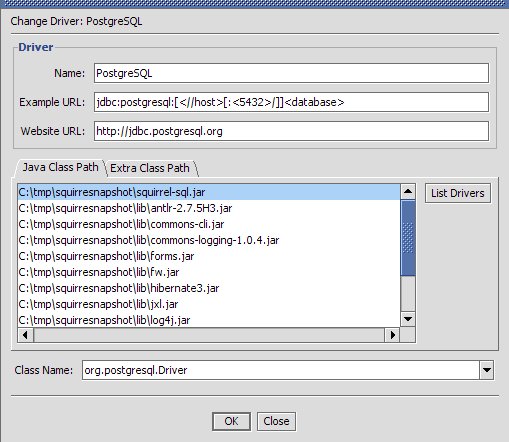
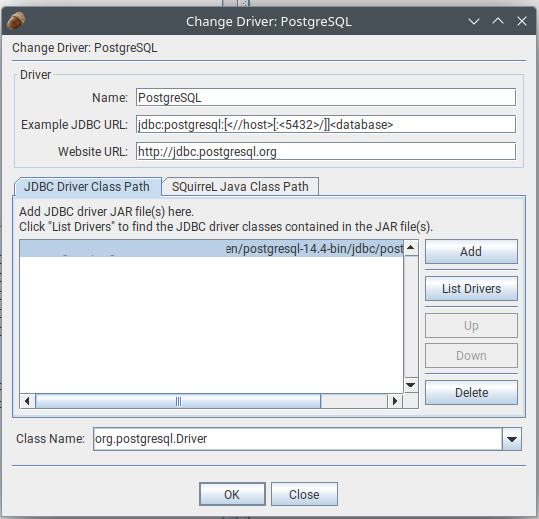
Bug fix: Updated/corrected the driver dialog description of SQuirreL's help.

diff --git a/sql12/core/doc/quick_start.html b/sql12/core/doc/quick_start.html
@@ -333,22 +333,13 @@ is only an example URL, the actual URL is defined in the alias.</p>
 <p>The <em>Website URL</em> allows you to store a link to the
 database vendor's website for JDBC driver documentation.</p>
 
-<p>The entries in the <em>Java Class path</em> tab show the
-directories and jars in the current class path. Pressing the <em>List
-Drivers</em> button will place the class names of all the JDBC drivers found
-in the class path into the <em>Class Name</em> dropdown control.</p>
+<p>The <em>JDBC Driver Class Path</em> allows you to select a JDBC
+	driver that is in a jar file or a directory.</p>
 
 <p>The <em>Class Name</em> specifies the class name of the JDBC
 driver. Either select an existing entry in the dropdown or key in the
 class name of the JDBC driver (it can normally be found in the
 documentation that comes with the driver).</p>
-
-<p>The <em>Extra Class Path</em> tab allows you to select a JDBC
-driver that is in a jar file or a directory that is not in the current
-class path.</p>
-
-<p align="CENTER"><img src="images/chg_driver_2.png" border="0"
-	alt="Change Driver dialog (Extra Class Path tab)"></p>
 
 <p>The <em>Add</em> button will display a File Open dialog allowing
 you to select one or more jar files or directories. The <em>Delete</em>
@@ -360,6 +351,19 @@ all the JDBC drivers into the <em>Class Name</em> dropdown.</p>
 <p>Press the <em>OK</em> button to save the driver definition and
 close the window or the <em>Close</em> button to close the window
 without saving any changes.</p>
+
+<p>
+Pressing the <em>List Drivers</em> button will place the class names of all the JDBC drivers found
+in the class path into the <em>Class Name</em> dropdown control.
+</p>
+
+<p align="CENTER"><img src="images/chg_driver_2.png" border="0"
+					   alt="Change Driver dialog (Extra Class Path tab)"></p>
+
+<p>The entries in the <em>Java Class path</em> tab show the	directories and jars in SQuirreL's class path.
+Note that SQuirreL does not ship drivers and that driver libs (jars) should not be copied into SQuirreL's class path.
+but instead should be added to the <em>JDBC Driver Class Path</em> and should be kept outside your SQuirreL installation directory.
+</p>
 
 <a name="the_alias"></a>
 
